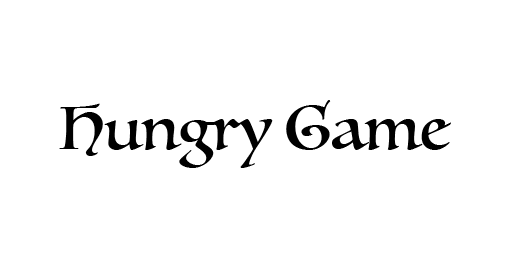
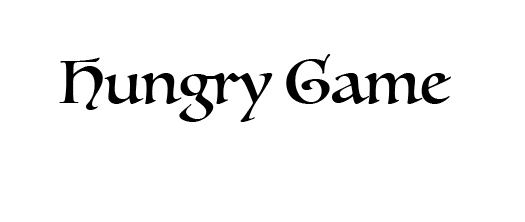
Update color scheme in style.css and index.html, slight mod to title image for centering

Changed region(s): [[0.0914, 0.2432, 0.8533, 0.6486]]

diff --git a/css/style.css b/css/style.css
@@ -4,15 +4,30 @@
 }
 
 body{
-	background:#8a8b8d url(../images/background.png) center no-repeat;
+    background: rgba(46,134,171,1);
+    background: -moz-linear-gradient(top, rgba(46,134,171,1) 0%, rgba(46,134,171,1) 57%, rgba(5,31,41,1) 100%);
+    background: -webkit-gradient(left top, left bottom, color-stop(0%, rgba(46,134,171,1)), color-stop(57%, rgba(46,134,171,1)), color-stop(100%, rgba(5,31,41,1)));
+    background: -webkit-linear-gradient(top, rgba(46,134,171,1) 0%, rgba(46,134,171,1) 57%, rgba(5,31,41,1) 100%);
+    background: -o-linear-gradient(top, rgba(46,134,171,1) 0%, rgba(46,134,171,1) 57%, rgba(5,31,41,1) 100%);
+    background: -ms-linear-gradient(top, rgba(46,134,171,1) 0%, rgba(46,134,171,1) 57%, rgba(5,31,41,1) 100%);
+    background: linear-gradient(to bottom, rgba(46,134,171,1) 0%, rgba(46,134,171,1) 57%, rgba(5,31,41,1) 100%);
+    filter: progid:DXImageTransform.Microsoft.gradient( startColorstr='#2e86ab', endColorstr='#051f29', GradientType=0 );
 }
 
 #BrokenMelodyLogo{
 	margin:0px auto 0px auto;
+    text-align:center;
 	width:820px;
 	height:200px;
-	background:#8a8b8d url('../images/title.png') center no-repeat;
-	padding:20px;
+    background: rgba(239,83,83,1);
+    background: rgba(255,255,255,1);
+    background: -moz-radial-gradient(center, ellipse cover, rgba(255,255,255,1) 0%, rgba(239,83,83,1) 64%, rgba(239,83,83,1) 100%);
+    background: -webkit-gradient(radial, center center, 0px, center center, 100%, color-stop(0%, rgba(255,255,255,1)), color-stop(64%, rgba(239,83,83,1)), color-stop(100%, rgba(239,83,83,1)));
+    background: -webkit-radial-gradient(center, ellipse cover, rgba(255,255,255,1) 0%, rgba(239,83,83,1) 64%, rgba(239,83,83,1) 100%);
+    background: -o-radial-gradient(center, ellipse cover, rgba(255,255,255,1) 0%, rgba(239,83,83,1) 64%, rgba(239,83,83,1) 100%);
+    background: -ms-radial-gradient(center, ellipse cover, rgba(255,255,255,1) 0%, rgba(239,83,83,1) 64%, rgba(239,83,83,1) 100%);
+    background: radial-gradient(ellipse at center, rgba(255,255,255,1) 0%, rgba(239,83,83,1) 64%, rgba(239,83,83,1) 100%);
+    filter: progid:DXImageTransform.Microsoft.gradient( startColorstr='#ffffff', endColorstr='#ef5353', GradientType=1 );	padding:20px;
 	border: solid 3px #2f0511;
 	border-top-left-radius:80px 80px;
 	border-top-right-radius:80px 80px;
@@ -20,16 +35,18 @@ body{
 
 #slogan{
 	margin:0px auto 0px auto;
-	background:#a1a2a4;
+	background:#2E86AB;
 	padding: 0px 17px ;
 	text-align:center;
+    font-family: Consolas, sans-serif;
 	font-size:30px;
-	border: solid 3px #84596a;
+	border: solid 3px #2E86AB;
 }
 
 
 #Page{
 	border: solid 3px #29292b;
+    background: #EF5353;
 	margin: 0px auto 0px auto;
 	padding:25px;
 	width: 810px;
@@ -43,7 +60,7 @@ body{
 }
 
 footer{
-	background:#8a8b8d;
+	background:#FFE8D1;
 	border: solid 3px #29292b;
 	margin: 0px auto 0px auto;
 	padding:25px;

diff --git a/index.html b/index.html
@@ -9,11 +9,11 @@
 <body>
 
 <div>
-	<h1 id="BrokenMelodyLogo"></h1>
+	<h1 id="BrokenMelodyLogo"><img src="images/title.png" /></h1>
     <p id="slogan">I'm really hungry now after looking at this.</p>
 </div>
 <div>
-    <div id="Page" style=" background: #ab7084; ">
+    <div id="Page">
       <canvas id="gameCanvas" width="800" height="600"></canvas>
 
       <!-- change this map to load it first, good for testing, set to 4e for release -->
@@ -29,7 +29,7 @@
       <script src="js/game/input.js"></script>
       <script src="js/game/audio.js"></script>
       <script src="js/game/main.js"></script>
-    </div>
+  </div>
 </div>
 <footer>
 	<h2>Instructions</h2>
